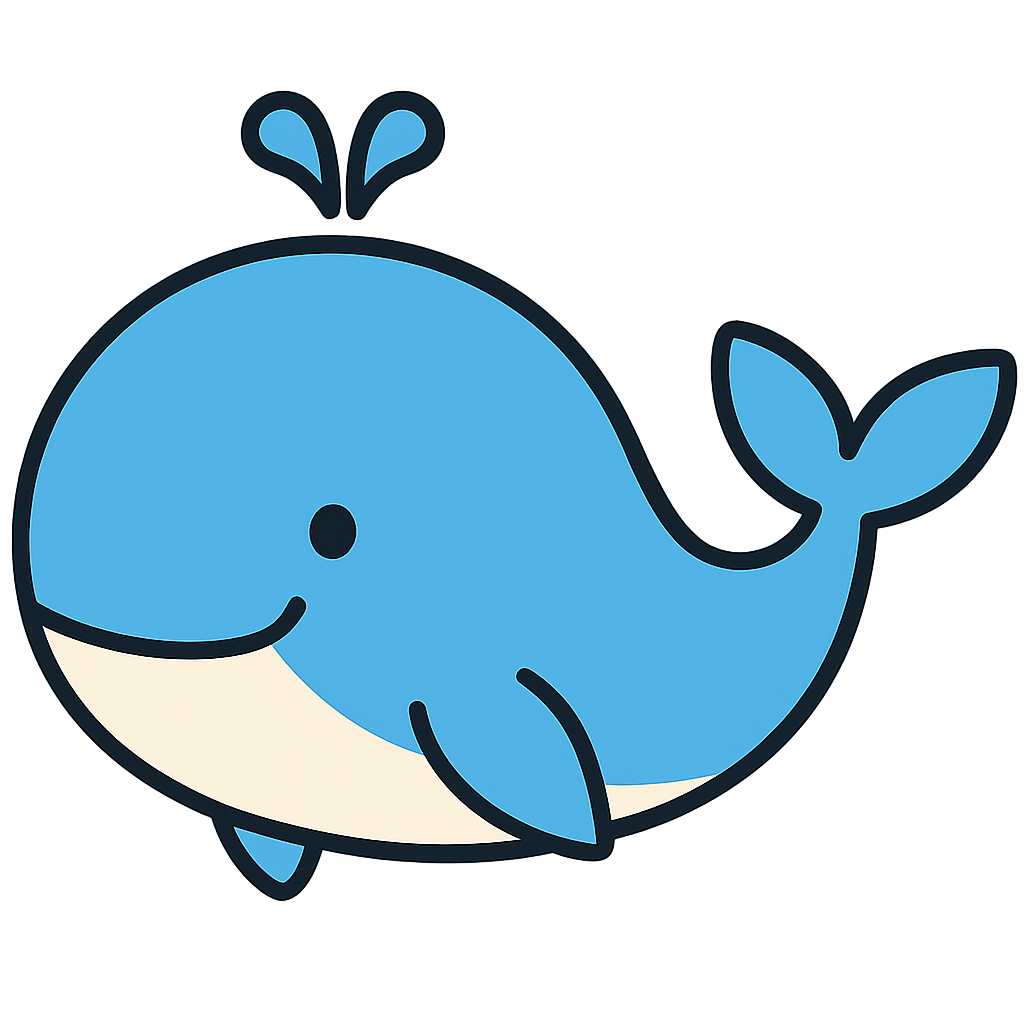
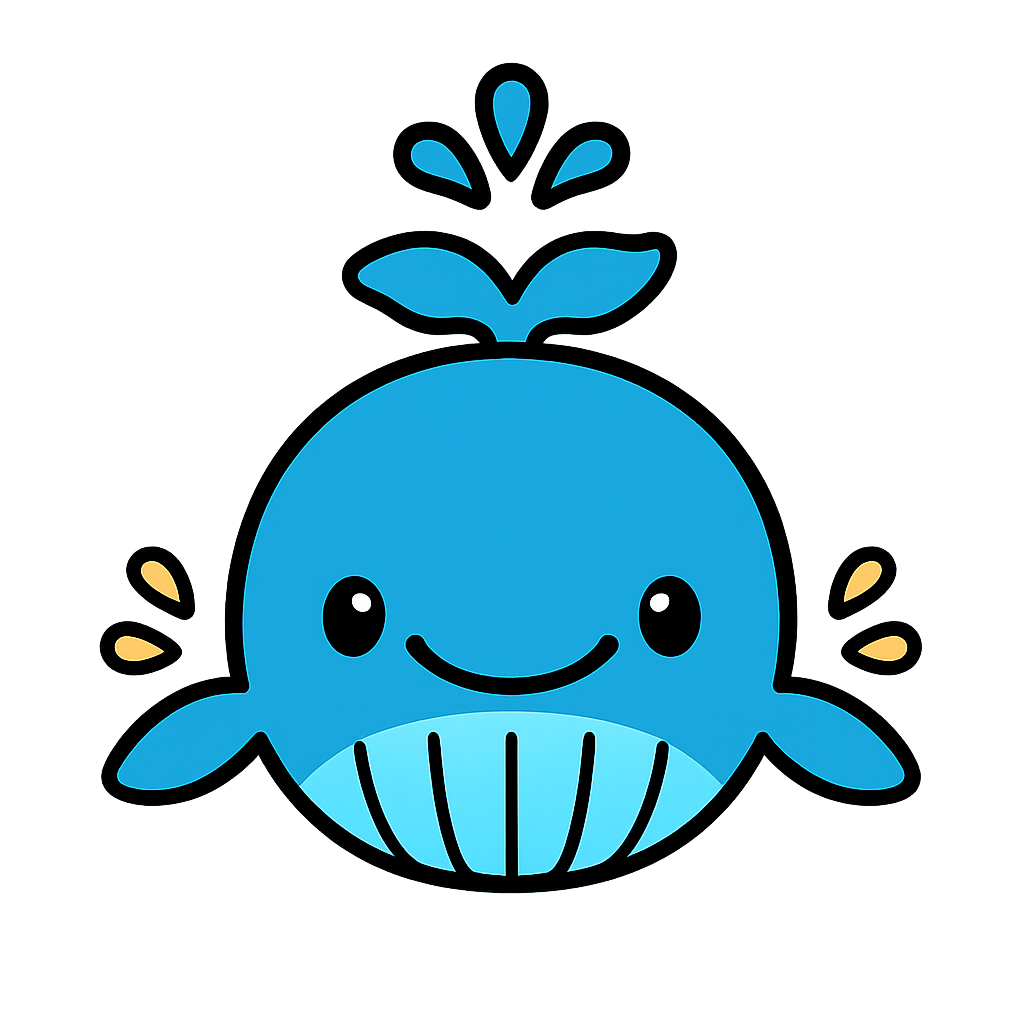
Walk the Plank: attached plank, horizon whale, reveal-then-advance
- New scene art with the plank joined to the ship (no longer floating).
- Whale is a front-on sprite that rises from the horizon and scales up
  straight toward the viewer as correct answers accumulate.
- One guess per question: a wrong answer now reveals the correct picture
  (highlighted + spoken + caption) and advances to a new question instead
  of letting the player guess repeatedly.

diff --git a/plank.js b/plank.js
@@ -2,20 +2,26 @@
 // Wrong = the kid steps further out the plank. Right = the whale swims
 // closer to the rescue. Whale arrives first -> saved. Kid falls off -> splash.
 import { CARDS } from "./cards.js";
-import { speak, shuffle, randomItem, imagePath, replay, confetti } from "./utils.js";
+import { speak, highlight, shuffle, randomItem, imagePath, replay, confetti } from "./utils.js";
 
 const STEPS = 6; // 6 correct rescues you; 6 wrong walks you off the end
 
 // Scene positions (percent), tuned to the perspective plank in
 // images/plank_scene.png. The plank runs from the ship (upper, far, small)
 // down toward the viewer (lower-right, near, big), so as the pirate walks out
-// he moves right + down and scales UP. The whale swims in toward the near end.
+// he moves right + down and scales UP.
 const KID = {
-  startL: 47, endL: 76,   // left %: ship end -> near tip
-  startT: 44, endT: 66,   // top %:  higher (far) -> lower (near)
-  startS: 0.55, endS: 1.15, // scale:  small (far) -> big (near)
+  startL: 47, endL: 74,   // left %: ship end -> near tip
+  startT: 42, endT: 64,   // top %:  higher (far) -> lower (near)
+  startS: 0.5, endS: 1.15, // scale:  small (far) -> big (near)
 };
-const WHALE_START = 90, WHALE_END = 72;
+// The whale rises from the horizon and barrels straight at the viewer:
+// nearly fixed left, dropping from the horizon and scaling way up.
+const WHALE = {
+  startL: 60, endL: 64,
+  startT: 38, endT: 62,
+  startS: 0.16, endS: 1.0,
+};
 const PIRATE_FRAMES = ["images/pirate_1.png", "images/pirate_2.png", "images/pirate_3.png"];
 
 const scene = document.getElementById("plankScene");
@@ -25,6 +31,7 @@ const whaleEl = document.getElementById("whale");
 const splash = document.getElementById("splash");
 const optionsEl = document.getElementById("plankOptions");
 const progressEl = document.getElementById("plankProgress");
+const revealEl = document.getElementById("plankReveal");
 const doneEl = document.getElementById("plankDone");
 const doneTitle = document.getElementById("plankDoneTitle");
 const doneScore = document.getElementById("plankDoneScore");
@@ -63,12 +70,21 @@ function buildQuestion() {
   };
 }
 
+function lerp(a, b, p) { return a + (b - a) * p; }
+
 function positions() {
   const t = wrong / STEPS;
-  walker.style.left = `${KID.startL + (KID.endL - KID.startL) * t}%`;
-  walker.style.top = `${KID.startT + (KID.endT - KID.startT) * t}%`;
-  walker.style.transform = `scale(${KID.startS + (KID.endS - KID.startS) * t})`;
-  whaleEl.style.left = `${WHALE_START - (WHALE_START - WHALE_END) * (correct / STEPS)}%`;
+  walker.style.left = `${lerp(KID.startL, KID.endL, t)}%`;
+  walker.style.top = `${lerp(KID.startT, KID.endT, t)}%`;
+  walker.style.transform = `scale(${lerp(KID.startS, KID.endS, t)})`;
+  const c = correct / STEPS;
+  whaleEl.style.left = `${lerp(WHALE.startL, WHALE.endL, c)}%`;
+  whaleEl.style.top = `${lerp(WHALE.startT, WHALE.endT, c)}%`;
+  whaleEl.style.transform = `translateX(-50%) scale(${lerp(WHALE.startS, WHALE.endS, c)})`;
+}
+
+function updateProgress() {
+  progressEl.textContent = `🐳 ${correct}/${STEPS}  •  🚶 ${wrong}/${STEPS}`;
 }
 
 // Cycle the pirate's stride and play a little walk bounce.
@@ -90,32 +106,45 @@ function renderQuestion() {
     btn.addEventListener("click", () => answer(btn, item));
     optionsEl.appendChild(btn);
   });
-  progressEl.textContent = `🐳 ${correct}/${STEPS}  •  🚶 ${wrong}/${STEPS}`;
+  revealEl.className = "plank-reveal";
+  revealEl.innerHTML = "";
+  updateProgress();
   replay(optionsEl, "swap-in");
   setTimeout(() => speak(current.target.word), 450);
 }
 
+// One guess per question: reveal the right picture either way, then move on.
 function answer(btn, item) {
   if (answered || over) return;
+  answered = true;
+  const buttons = [...optionsEl.children];
+  buttons.forEach(b => (b.disabled = true));
+  // always show which picture was correct
+  const correctIdx = current.items.findIndex(x => x.correct);
+  buttons[correctIdx].classList.add("correct");
+  speak(current.target.word); // say the answer aloud
+
+  const labelled = highlight(current.target.word, current.target.card.grapheme);
   if (item.correct) {
-    answered = true;
-    btn.classList.add("correct");
     correct++;
     positions();
-    progressEl.textContent = `🐳 ${correct}/${STEPS}  •  🚶 ${wrong}/${STEPS}`;
-    optionsEl.querySelectorAll("button").forEach(b => (b.disabled = true));
+    revealEl.className = "plank-reveal right show";
+    revealEl.innerHTML = `✅ Yes! It was <b>${labelled}</b>`;
+    updateProgress();
     if (correct >= STEPS) return win();
-    setTimeout(renderQuestion, 1100);
+    setTimeout(renderQuestion, 1500);
   } else {
     btn.classList.add("wrong");
-    btn.disabled = true;
     wrong++;
     positions();
     takeStep(); // a step further out the plank, toward us
     walkerImg.classList.add("wobble");
     setTimeout(() => walkerImg.classList.remove("wobble"), 500);
-    progressEl.textContent = `🐳 ${correct}/${STEPS}  •  🚶 ${wrong}/${STEPS}`;
-    if (wrong >= STEPS) lose();
+    revealEl.className = "plank-reveal wrong show";
+    revealEl.innerHTML = `❌ It was <b>${labelled}</b>`;
+    updateProgress();
+    if (wrong >= STEPS) return lose();
+    setTimeout(renderQuestion, 1900);
   }
 }
 
@@ -123,8 +152,8 @@ function win() {
   over = true;
   speak("You are rescued!");
   // hop the pirate onto the whale at the near end of the plank
-  walker.style.left = `${WHALE_END + 1}%`;
-  walker.style.top = "60%";
+  walker.style.left = `${WHALE.endL}%`;
+  walker.style.top = "54%";
   walker.style.transform = "scale(1.05)";
   walker.classList.add("rescued");
   setTimeout(() => {
@@ -159,6 +188,8 @@ export function newPlankGame() {
   walkerImg.src = PIRATE_FRAMES[0];
   splash.classList.add("hidden");
   doneEl.classList.add("hidden");
+  revealEl.className = "plank-reveal";
+  revealEl.innerHTML = "";
   positions();
   renderQuestion();
 }

diff --git a/style.css b/style.css
@@ -559,15 +559,21 @@ main {
   50% { transform: translateY(-12%); }
 }
 
+/* Whale container: rises from the horizon and scales up straight toward us
+   (left/top/scale set inline from JS). Inner image just bobs. */
 .whale {
   position: absolute;
-  top: 70%;
-  left: 90%;
-  width: clamp(70px, 20%, 130px);
-  z-index: 3;
-  transition: left 0.6s cubic-bezier(0.4, 0, 0.2, 1), top 0.6s;
-  animation: bob 1.6s ease-in-out infinite;
+  top: 40%;
+  left: 60%;
+  width: clamp(80px, 24%, 150px);
+  z-index: 2;
+  transform-origin: center bottom;
+  transition: left 0.6s cubic-bezier(0.4, 0, 0.2, 1),
+              top 0.6s cubic-bezier(0.4, 0, 0.2, 1),
+              transform 0.6s cubic-bezier(0.4, 0, 0.2, 1);
 }
+
+.whale img { width: 100%; display: block; animation: bob 1.6s ease-in-out infinite; }
 
 .splash {
   position: absolute;
@@ -593,6 +599,21 @@ main {
 }
 
 .plank-options.swap-in { animation: wordSwap 0.4s cubic-bezier(0.18, 1.2, 0.4, 1); }
+
+.plank-reveal {
+  min-height: 1.6rem;
+  margin-top: 0.7rem;
+  font-size: 1.2rem;
+  font-weight: bold;
+  text-align: center;
+  opacity: 0;
+  transition: opacity 0.25s;
+}
+
+.plank-reveal.show { opacity: 1; }
+.plank-reveal.right { color: #2e7d32; }
+.plank-reveal.wrong { color: #c62828; }
+.plank-reveal .hl { color: #d81b60; text-decoration: underline; }
 
 .plank-option {
   padding: 0;

diff --git a/index.html b/index.html
@@ -108,12 +108,13 @@
 
       <div class="plank-scene" id="plankScene">
         <div class="walker" id="walker"><img id="walkerImg" src="images/pirate_1.png" alt="pirate"></div>
-        <img class="whale" id="whale" src="images/whale.png" alt="whale">
+        <div class="whale" id="whale"><img id="whaleImg" src="images/whale.png" alt="whale"></div>
         <div class="splash hidden" id="splash">💦</div>
       </div>
 
       <p class="plank-instruct">🎧 Listen, then tap the picture that matches the word!</p>
       <div class="plank-options" id="plankOptions"></div>
+      <p class="plank-reveal" id="plankReveal"></p>
 
       <div class="match-done hidden" id="plankDone">
         <div class="match-done-card">